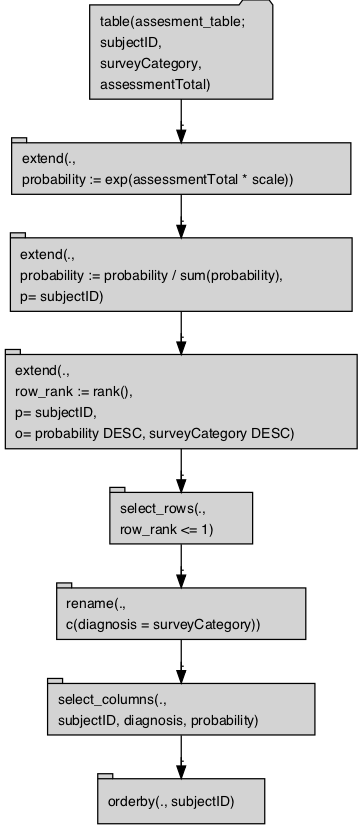
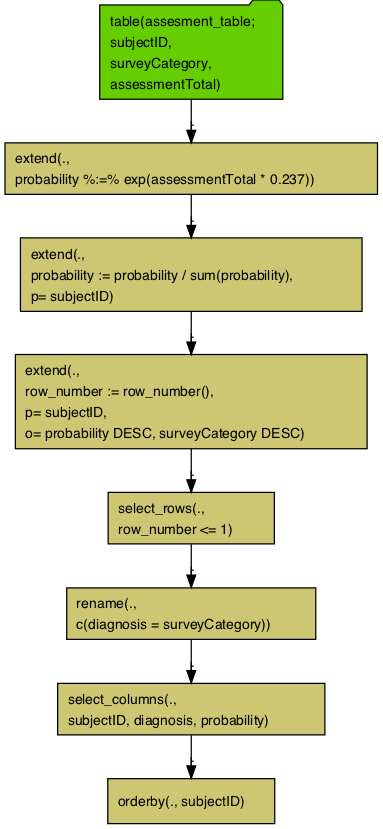
switch to svg

diff --git a/extras/rquery_diagram.md b/extras/rquery_diagram.md
@@ -7,17 +7,13 @@ Example of drawing an `rquery` pipeline diagram.
 
 ``` r
 library("rquery")
-```
 
-    ## Loading required package: wrapr
-
-``` r
 scale <- 0.237
 
 rquery_pipeline <- mk_td("assesment_table", 
                          qc(subjectID, surveyCategory, assessmentTotal)) %.>%
   extend_nse(.,
-             probability :=
+             probability %:=%
                exp(assessmentTotal * scale))  %.>% 
   normalize_cols(.,
                  "probability",
@@ -26,7 +22,7 @@ rquery_pipeline <- mk_td("assesment_table",
              partitionby = 'subjectID',
              orderby = c('probability', 'surveyCategory'),
              reverse = c('probability', 'surveyCategory')) %.>% 
-  rename_columns(., 'diagnosis' := 'surveyCategory') %.>%
+  rename_columns(., 'diagnosis' %:=% 'surveyCategory') %.>%
   select_columns(., c('subjectID', 
                       'diagnosis', 
                       'probability')) %.>%
@@ -37,8 +33,7 @@ rquery_pipeline %.>%
   op_diagram(.) %.>% 
   DiagrammeR::DiagrammeR(diagram = ., type = "grViz") %.>% 
   DiagrammeRsvg::export_svg(.) %.>% 
-  charToRaw(.) %.>%
-  rsvg::rsvg_png(., file = "rquery_diagram_files/diagram1.png")
+  write(., file="rquery_diagram_files/diagram1.svg")
 ```
 
-![](rquery_diagram_files/diagram1.png)
+![](rquery_diagram_files/diagram1.svg)
